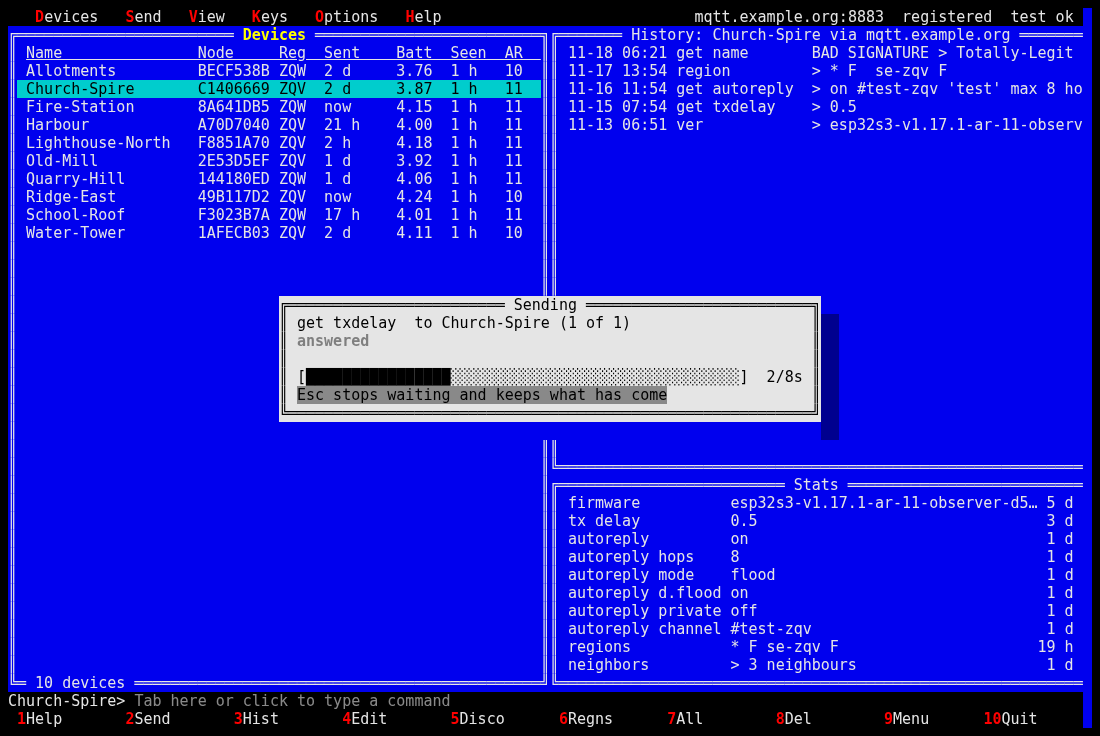
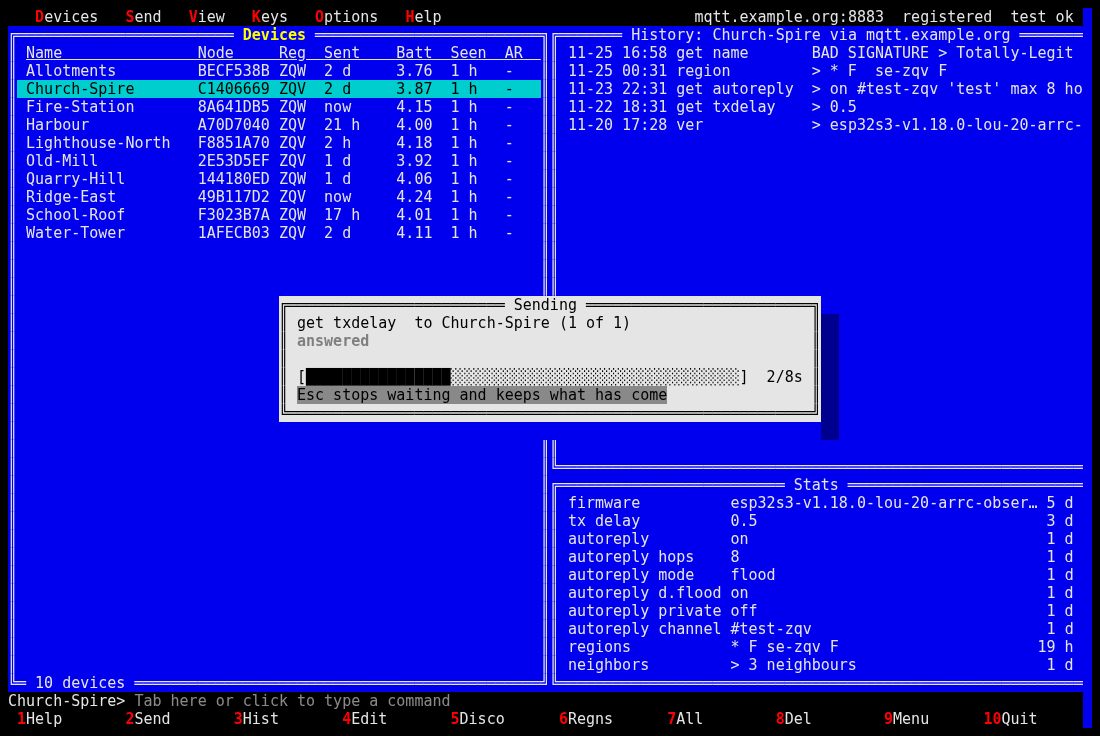
The pictures' invented fleet runs lou-20 and lou-18 images
scripts/screenshots.py gave every node an ar-10 or ar-11 version on 1.17.1;
the fleet now runs the released lou-20 image, two nodes lou-18, and the
fifteen pictures are made again.

diff --git a/scripts/screenshots.py b/scripts/screenshots.py
@@ -55,7 +55,9 @@ def key_of(name):
 
 
 def firmware(name, rev):
-    return f"esp32s3-v1.17.1-ar-{rev}-observer-{hashlib.sha256(name.encode()).hexdigest()[:8]}"
+    # The invented fleet runs the released images: lou-20 on most, lou-18 on the two that lag.
+    lou = 20 if rev >= 11 else 18
+    return f"esp32s3-v1.18.0-lou-{lou}-arrc-observer-{hashlib.sha256(name.encode()).hexdigest()[:7]}"
 
 
 def check_invented():
